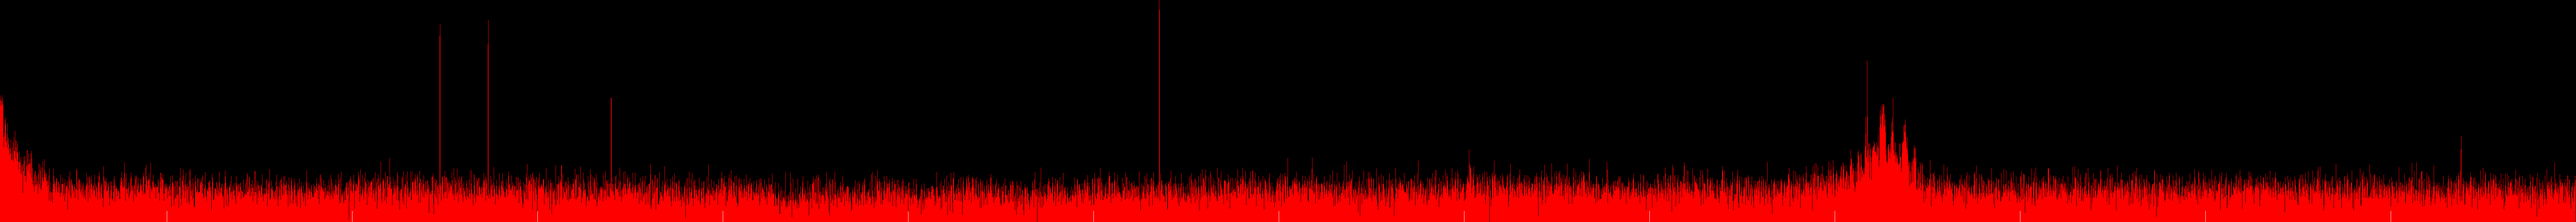
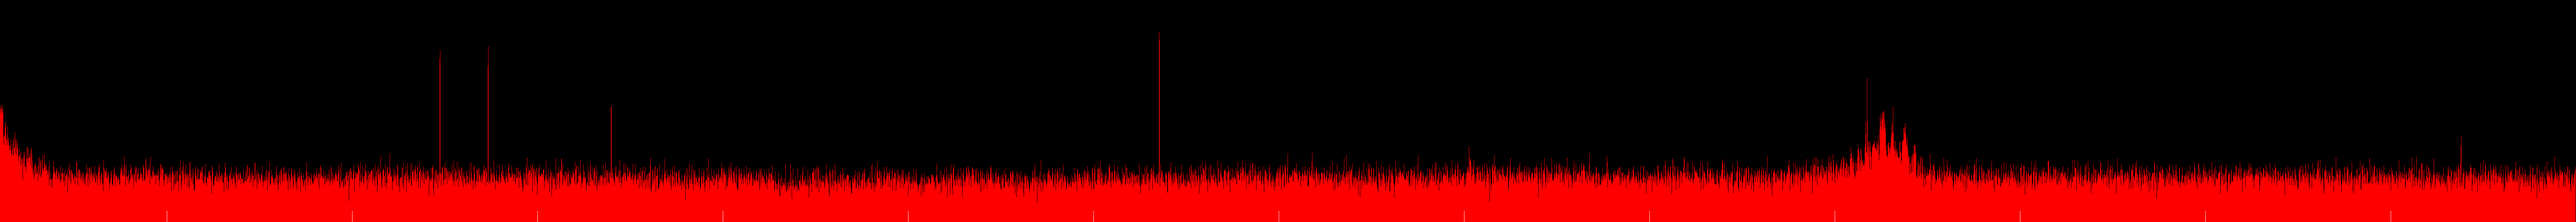
Add overlapping window to remove DC

Changed region(s): [[0.0, 0.69, 1.0, 0.93]]

diff --git a/app/src/main/java/com/mantz_it/rfanalyzer/AnalyzerProcessingLoop.java b/app/src/main/java/com/mantz_it/rfanalyzer/AnalyzerProcessingLoop.java
@@ -64,6 +64,7 @@ public class AnalyzerProcessingLoop extends Thread {
 	// File to output frame shots
 	private long frameShotStart = 0;
 	private long frameShotEnd = 0;
+	private float[] shotFragment = null;
 	private BufferedOutputStream frameOut = null;
 	private File frameFile = null;
 
@@ -146,8 +147,8 @@ public class AnalyzerProcessingLoop extends Thread {
 		long sleepTime;		// time (in ms) to sleep before the next run to meet the frame rate
 		long frequency;		// center frequency of the incoming samples
 		int sampleRate;		// sample rate of the incoming samples
-		boolean frameShot = false;	// Whether it is taking frameShot;
-		boolean pFrameShot = false;	// Whether it was taking frameShot in last buffer.
+		int frameShot = 0;	// Whether it is taking frameShot;
+		int pFrameShot = 0;	// Whether it was taking frameShot in last buffer.
 									// Used to decide where to start and stop.
 
 		while(!stopRequested) {
@@ -171,13 +172,13 @@ public class AnalyzerProcessingLoop extends Thread {
 			frequency = samples.getFrequency();
 			sampleRate = samples.getSampleRate();
 			frameShot = samples.getFrameShot();
-			if (frameShot) Log.i(LOGTAG, "FrameShot Open! Fre: " + frequency);
+			if (frameShot != 0) Log.i(LOGTAG, "FrameShot Open! Fre: " + frequency);
 
 			// do the signal processing:
 			this.doProcessing(samples);
 
 			try {
-				if (!pFrameShot && frameShot) {
+				if (pFrameShot == 0 && frameShot != 0) {
 					// Frame shot starts, create output file
 					frameShotStart = frequency;
 					frameFile = new File(externalDir + "/" + RECORDING_DIR + "/FrameShot_"
@@ -188,29 +189,61 @@ public class AnalyzerProcessingLoop extends Thread {
 					if (frameOut != null) {
 						// Put the start / end frequency on the first line.
 						String firstLine = Long.toString(frameShotStart) + ' '
-								+ Long.toString(this.frameShotEnd) + '\n';
+								+ Long.toString(this.frameShotEnd) + ' '
+								+ Integer.toString(sampleRate) + '\n';
 						frameOut.write(firstLine.getBytes());
 					}
 				}
 
-				if (frameShot && frameOut != null) {
+				if (frameShot != 0 && frameOut != null) {
 					// Put the data for this area into the file.
 					int aSize = mag.length;
 					// Make sure the output does not include the data out of range.
-					int startP = 0;
-					int endP = fftSize;
-					if (frequency - sampleRate / 2 < frameShotStart) {
-						startP = (int)Math.floor((double)
-								(frameShotStart - (frequency - sampleRate / 2)) * aSize / sampleRate);
+					if (frameShot == 2 && pFrameShot == 2) {
+						Log.e(LOGTAG, "Error happened, two sequential 2 at " + frequency);
+					} else {
+						if (frameShot == 1 && pFrameShot == 1) {
+							Log.e(LOGTAG, "Error happened, two Sequencial 1 at " + frequency);
+						}
+						if (frameShot == 1) {
+							int startP = 0;
+							int endP = aSize / 3;
+							if (frequency - sampleRate / 2 < frameShotStart) {
+								startP = (int) Math.floor((double)
+										(frameShotStart - (frequency - sampleRate / 2)) * aSize / sampleRate);
+							}
+							if (frequency - sampleRate / 6 > frameShotEnd) {
+								endP = aSize - (int) Math.floor((double)
+										((frequency - sampleRate / 6) - frameShotEnd) * aSize / 3 / sampleRate);
+							}
+							if (startP < endP) {
+								float[] outArray = Arrays.copyOfRange(mag, startP, endP);
+								String outLine = Arrays.toString(outArray);
+								outLine = outLine.substring(1, outLine.length() - 1) + '\n';
+								frameOut.write(outLine.getBytes());
+							}
+							shotFragment = Arrays.copyOfRange(mag, aSize * 2 / 3, aSize);
+						} else if (frameShot == 2) {
+							int startP = 0;
+							int endP = aSize;
+							if (frequency - sampleRate / 2 < frameShotStart) {
+								startP = (int) Math.floor((double)
+										(frameShotStart - (frequency - sampleRate / 2)) * aSize / sampleRate);
+							}
+							if (frequency + sampleRate / 2 > frameShotEnd) {
+								endP = aSize - (int) Math.floor((double)
+										((frequency + sampleRate / 2) - frameShotEnd) * aSize / sampleRate);
+							}
+							float[] connectedArray = new float[aSize];
+							System.arraycopy(mag, 0, connectedArray, 0, aSize * 2 / 3 - aSize / 3);
+							System.arraycopy(shotFragment, 0, connectedArray, aSize*2/3 - aSize/3, shotFragment.length);
+							System.arraycopy(mag, aSize - aSize / 3, connectedArray, aSize - aSize / 3, aSize / 3);
+							float[] outArray = Arrays.copyOfRange(connectedArray, startP, endP);
+							String outLine = Arrays.toString(outArray);
+							outLine = outLine.substring(1, outLine.length() - 1) + '\n';
+							frameOut.write(outLine.getBytes());
+						}
 					}
-					if (frequency + sampleRate / 2 > frameShotEnd) {
-						endP = aSize - (int)Math.floor((double)
-								((frequency + sampleRate / 2) - frameShotEnd) * aSize / sampleRate);
-					}
-					float[] outArray = Arrays.copyOfRange(mag, startP, endP);
-					String outLine = Arrays.toString(outArray);
-					outLine = outLine.substring(1, outLine.length() -1) + '\n';
-					frameOut.write(outLine.getBytes());
 				}
 			} catch (FileNotFoundException e) {
 				Log.e(LOGTAG, "AnalyzerProcessingLoop: File not found: " + frameFile.getAbsolutePath());
@@ -218,7 +251,7 @@ public class AnalyzerProcessingLoop extends Thread {
 				Log.e(LOGTAG, "run: Error while writing FrameOut: " + e.getMessage());
 			}
 
-			if (pFrameShot && !frameShot) {
+			if (pFrameShot != 0 && frameShot == 0) {
 				// Time to close the file
 				try {
 					frameOut.close();
@@ -233,7 +266,7 @@ public class AnalyzerProcessingLoop extends Thread {
 			returnQueue.offer(samples);
 
 			// To improve the frame shot speed, close the display function while taking the shot
-			if (!frameShot) {
+			if (frameShot == 0) {
 				// Push the results on the surface:
 				view.draw(mag, frequency, sampleRate, frameRate, load);
 

diff --git a/app/src/main/java/com/mantz_it/rfanalyzer/Scheduler.java b/app/src/main/java/com/mantz_it/rfanalyzer/Scheduler.java
@@ -60,7 +60,7 @@ public class Scheduler extends Thread {
 	private static final String LOGTAG = "Scheduler";
 
 	// The variables for frame shots.
-	private boolean frameShot = false;
+	private int frameShot = 0;
 	private long endingFrequence = 0;
 
 	public Scheduler(int fftSize, IQSourceInterface source) {
@@ -165,9 +165,9 @@ public class Scheduler extends Thread {
 	}
 
 	// The new methods to operate on the variables for frame shot
-	public void startFrameShot() { this.frameShot = true; }
-	public void stopFrameShot() { this.frameShot = false; }
-	public boolean isFrameShot() { return this.frameShot; }
+	public void startFrameShot() { this.frameShot = 1; }
+	public void stopFrameShot() { this.frameShot = 0; }
+	public int isFrameShot() { return this.frameShot; }
 	public void frameShotEndFre( long iFreq ) { this.endingFrequence = iFreq; }
 
 	@Override
@@ -239,13 +239,20 @@ public class Scheduler extends Thread {
 				if(fftBuffer.capacity() == fftBuffer.size()) {
 					// If is doing frame shot, move window forward until reach the end.
 					fftBuffer.setFrameShot(this.frameShot);
-					if (this.frameShot) {
+					if (this.frameShot != 0) {
+						// Overlap two windows with both using their 2/3 of the data to remove DC in the middle
 						//Log.d(LOGTAG, "FrameShot taken for" + fftBuffer.getFrequency());
-						if (source.getFrequency() + source.getSampleRate()/2 < this.endingFrequence) {
+						if (this.frameShot == 1 &&
+								source.getFrequency() - source.getSampleRate() / 6 < this.endingFrequence) {
+							this.frameShot = 2;
+							source.setFrequency(source.getFrequency() + source.getSampleRate() / 3);
+						} else if (this.frameShot == 2 &&
+								source.getFrequency() + source.getSampleRate()/2 < this.endingFrequence) {
+							this.frameShot = 1;
 							source.setFrequency(source.getFrequency() + source.getSampleRate());
 						} else {
 							this.stopRecording();
-							this.frameShot = false;
+							this.frameShot = 0;
 						}
 					}
 

diff --git a/app/src/main/java/com/mantz_it/rfanalyzer/SamplePacket.java b/app/src/main/java/com/mantz_it/rfanalyzer/SamplePacket.java
@@ -30,7 +30,7 @@ public class SamplePacket {
 	private float[] im;			// imag values
 	private long frequency;		// center frequency
 	private int sampleRate;		// sample rate
-	private boolean frameShot;	// Is taking frame shot
+	private int frameShot;	// Is taking frame shot
 	private int size;			// number of samples in this packet
 
 	/**
@@ -66,7 +66,7 @@ public class SamplePacket {
 		this.frequency = frequency;
 		this.sampleRate = sampleRate;
 		this.size = size;
-		this.frameShot = false;
+		this.frameShot = 0;
 	}
 
 	/**
@@ -80,7 +80,7 @@ public class SamplePacket {
 		this.frequency = 0;
 		this.sampleRate = 0;
 		this.size = 0;
-		this.frameShot = false;
+		this.frameShot = 0;
 	}
 
 	/**
@@ -170,6 +170,6 @@ public class SamplePacket {
 	}
 
 	// Set / Get frame shot status.
-	public void setFrameShot(boolean flag) { this.frameShot = flag; }
-	public boolean getFrameShot() { return this.frameShot; }
+	public void setFrameShot(int fShot) { this.frameShot = fShot; }
+	public int getFrameShot() { return this.frameShot; }
 }

diff --git a/PyAnalyzer/FSAnalyzer.py b/PyAnalyzer/FSAnalyzer.py
@@ -8,8 +8,8 @@ outputDir = 'Output'
 scaleSize = 500000000
 widthPreference = 0
 heightPreference = 0
-maxPreference = None
-minPreference = None
+maxPreference = -34
+minPreference = -44
 mixMode = 'average'
 MIX_MODES = ['max', 'average']
 
@@ -84,6 +84,7 @@ for files in os.listdir(inputDir):
                 maxA = maxPreference
             if minPreference is not None:
                 minA = minPreference
+            print "Amplitude changes from {0} to {1}".format(minA, maxA)
             hScale = (maxA - minA) / height
             prevFreq = startF - 1
             for ind, hgt in enumerate(colQue):

diff --git a/app/src/main/java/com/mantz_it/rfanalyzer/MainActivity.java b/app/src/main/java/com/mantz_it/rfanalyzer/MainActivity.java
@@ -1576,7 +1576,7 @@ public class MainActivity extends Activity implements IQSourceInterface.Callback
 											do {
 												// Check every half second if it is still recording
 												Thread.sleep(500);
-											} while (frameShotLoop && scheduler.isFrameShot());
+											} while (frameShotLoop && scheduler.isFrameShot() != 0);
 
 											long thisTime = System.currentTimeMillis();
 
